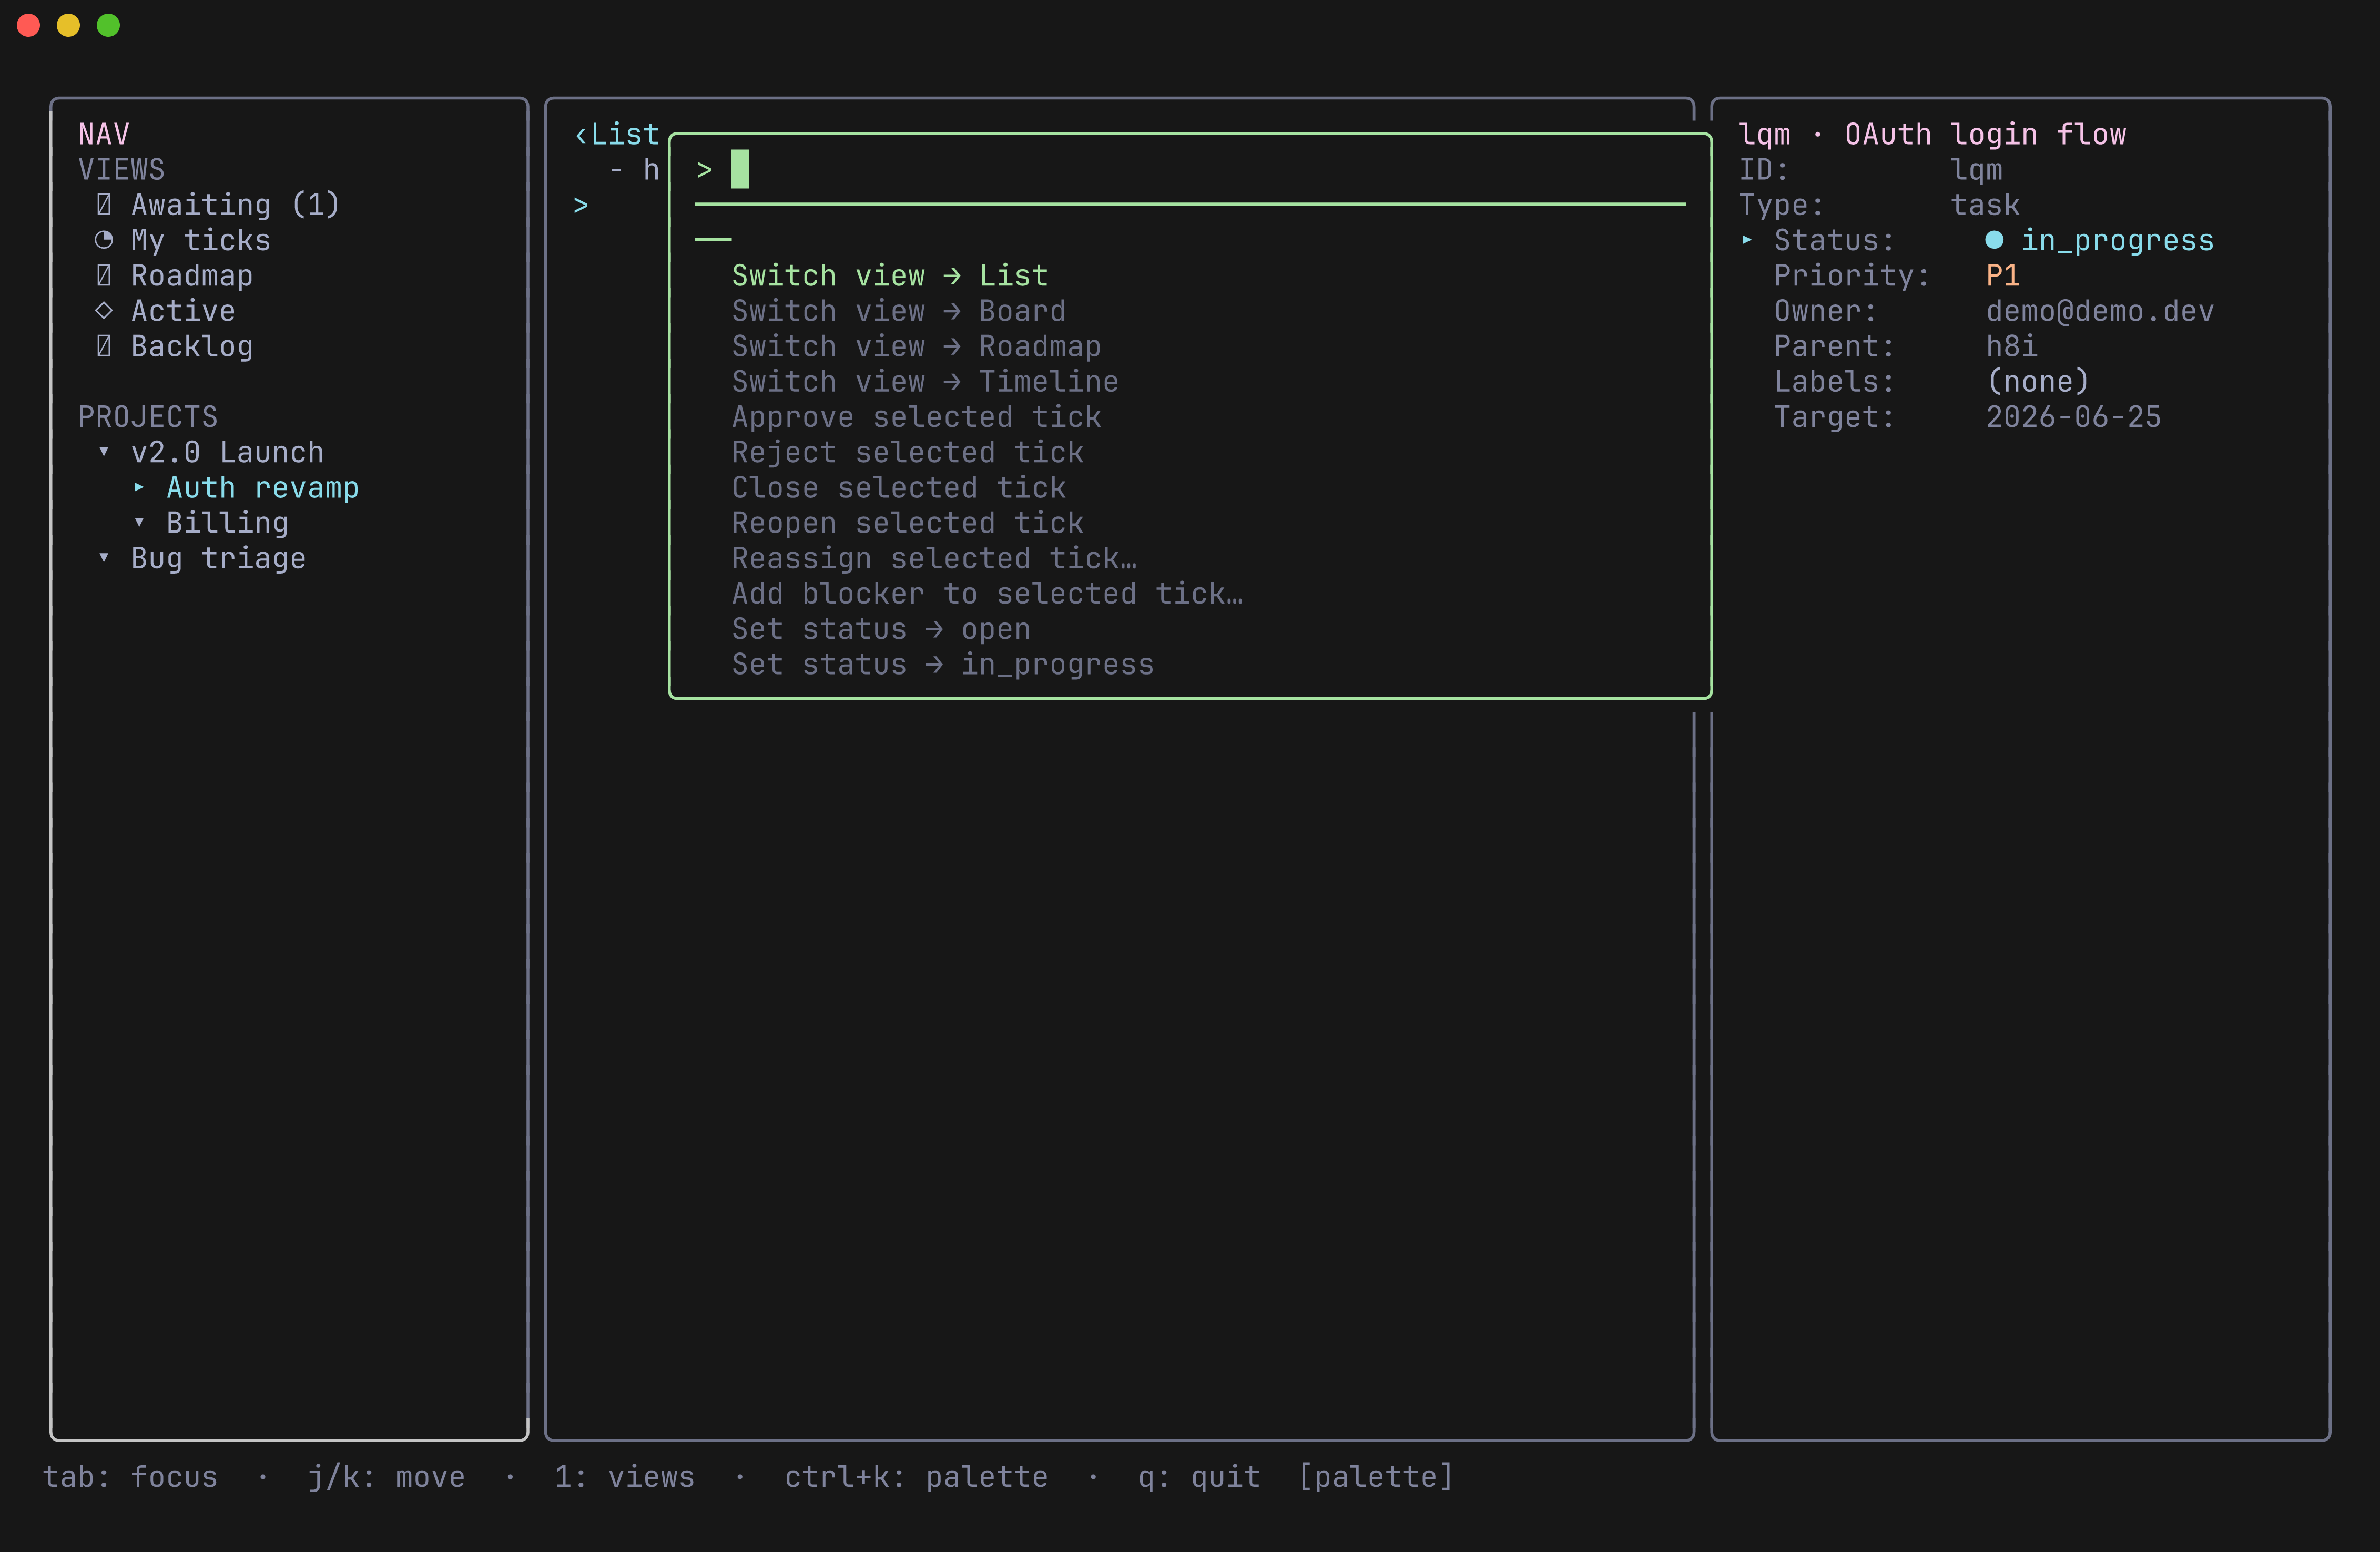
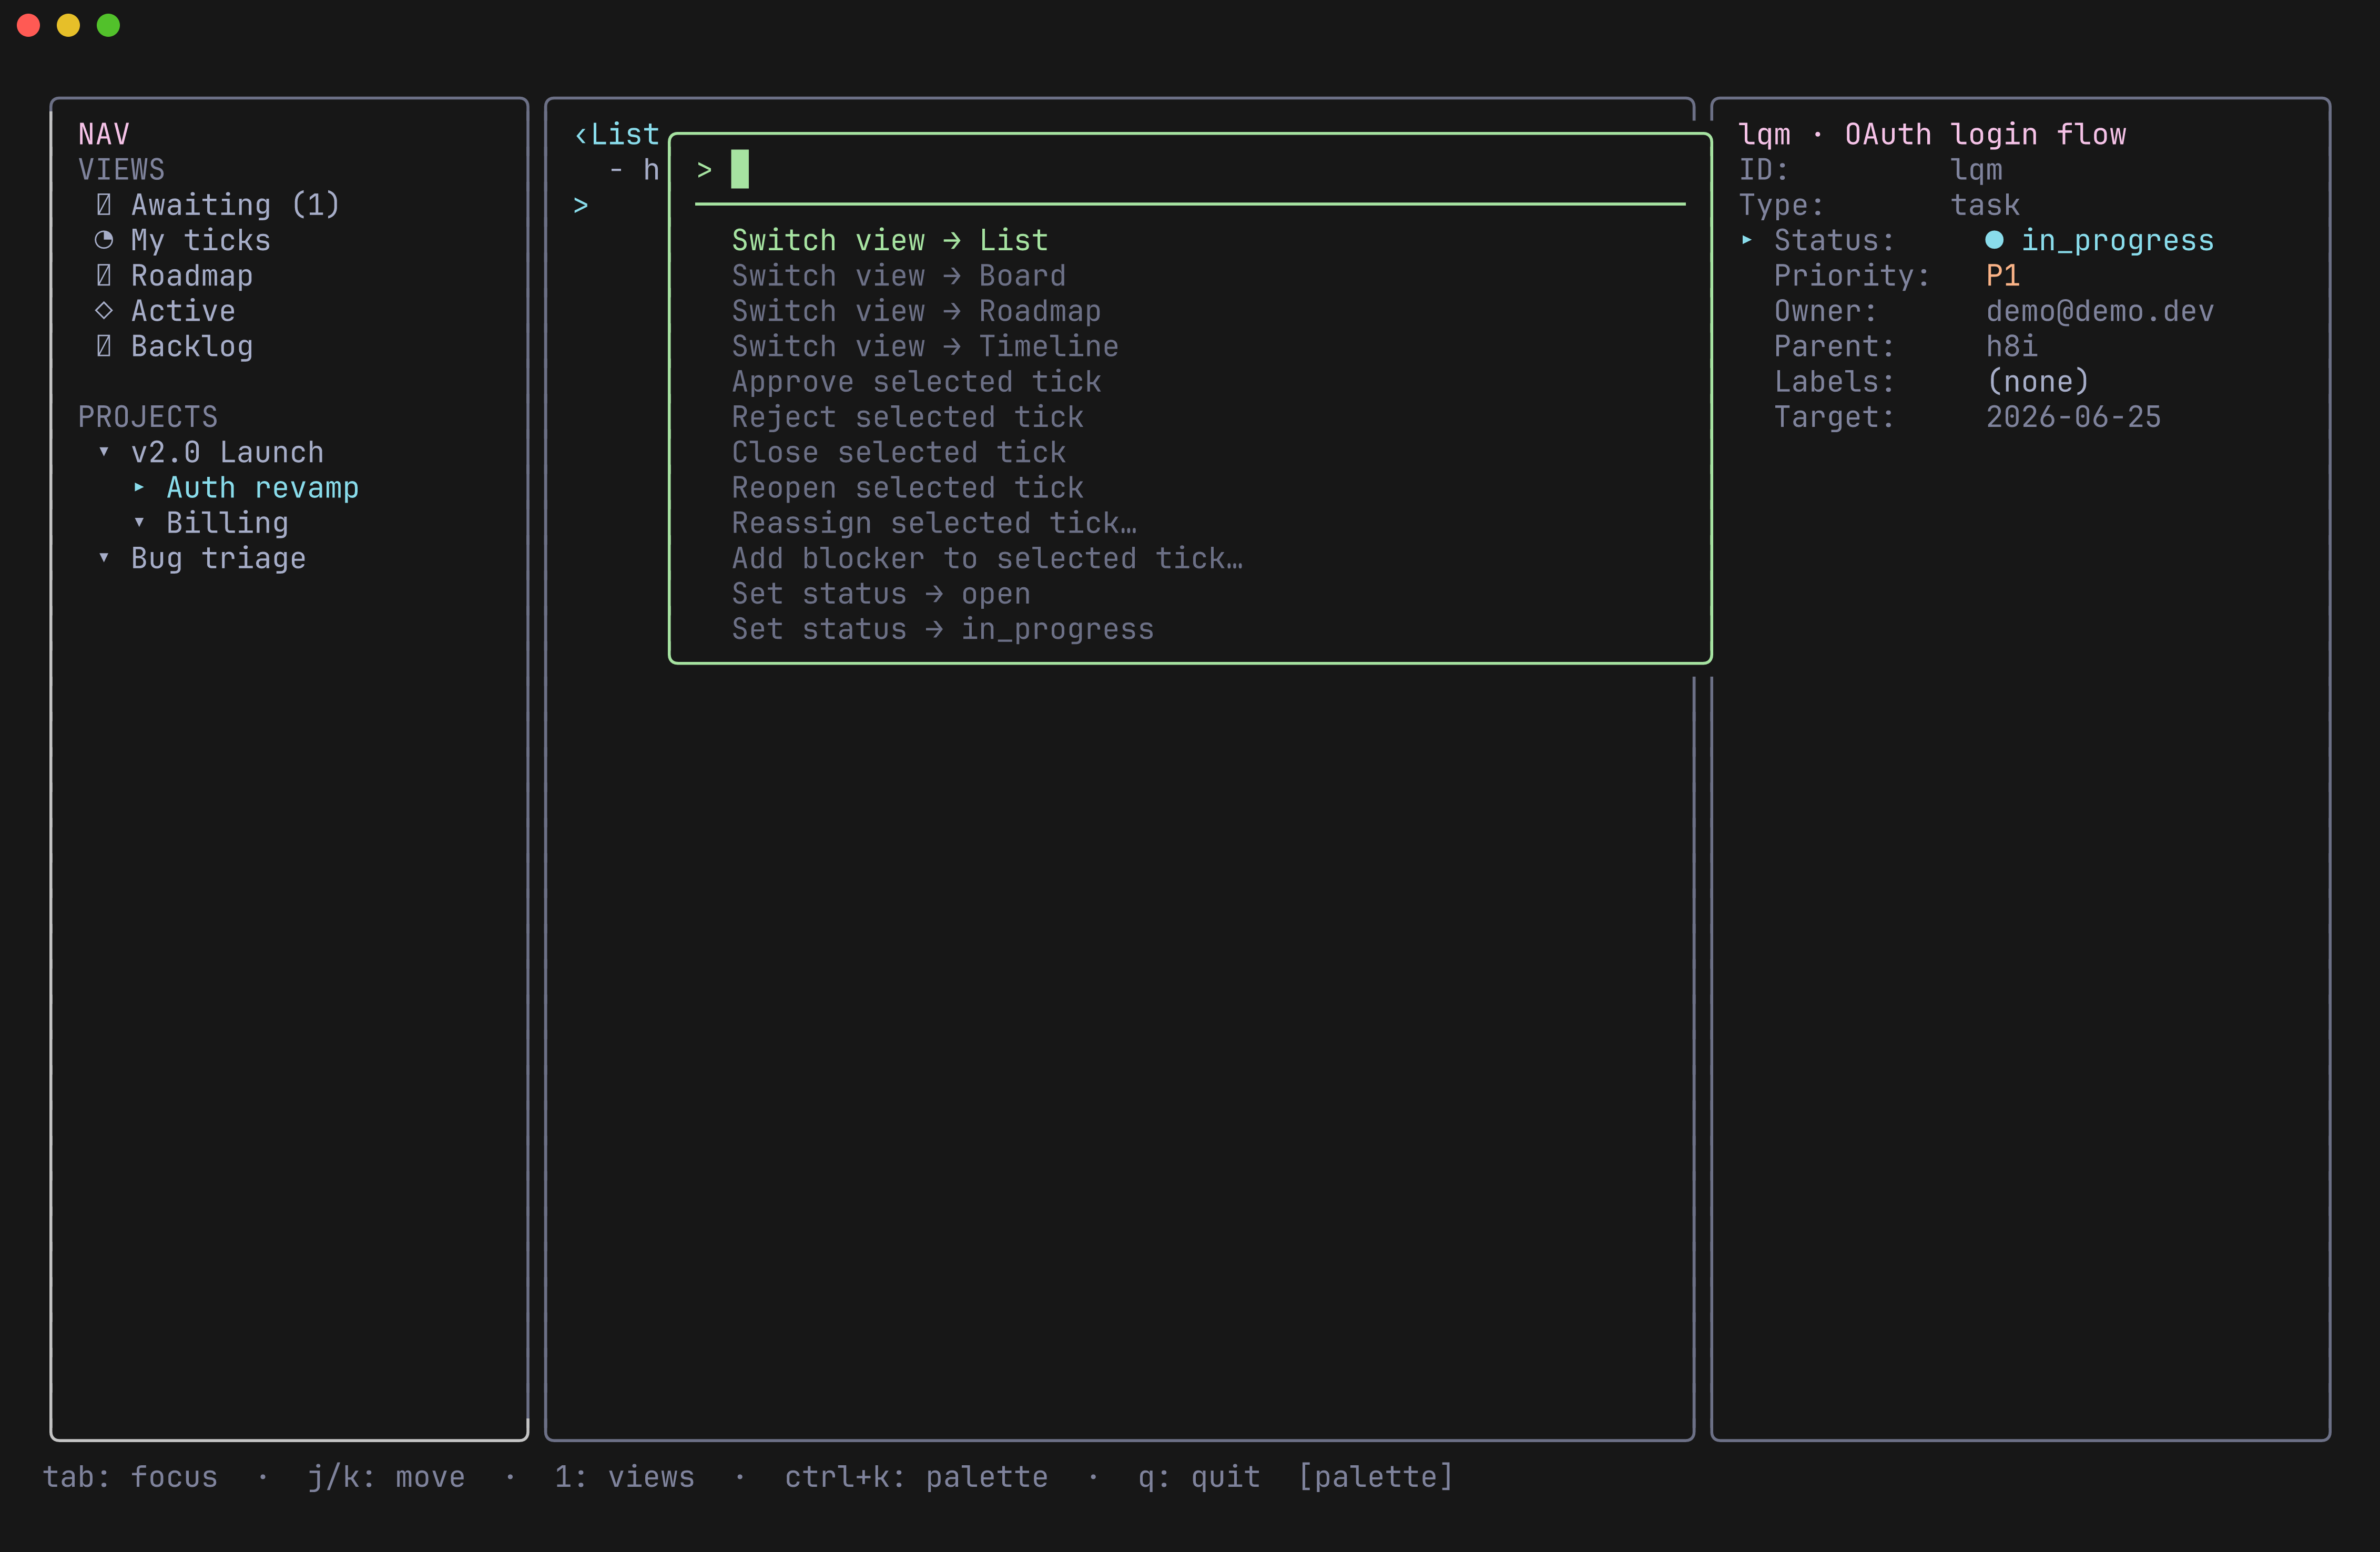
fix(tui): palette divider/labels overflowed inner width (Padding(0,1)) and wrapped a dangling segment
Inner text area is boxWidth-4 (border −2, padding −2), not boxWidth-2. Rule now
matches it exactly; row labels truncate to boxWidth-6 to account for the indent.
Regenerated golden + screenshot.

Changed region(s): [[0.3115, 0.187, 0.4985, 0.4363], [0.3115, 0.1558, 0.4361, 0.187]]

diff --git a/internal/tui/palette.go b/internal/tui/palette.go
@@ -298,12 +298,15 @@ func (p palette) View() string {
 
 	var lines []string
 	lines = append(lines, header)
-	lines = append(lines, strings.Repeat("─", boxWidth-2))
+	// boxWidth includes the border (−2) and Padding(0,1) (−2): the inner text
+	// area is boxWidth−4. The rule must match it exactly or it wraps a dangling
+	// segment onto the next line.
+	lines = append(lines, strings.Repeat("─", boxWidth-4))
 	if len(visible) == 0 {
 		lines = append(lines, paletteDimStyle.Render("  No matches"))
 	}
 	for i, c := range visible {
-		label := truncate(c.title, boxWidth-4)
+		label := truncate(c.title, boxWidth-6) // −4 inner width, −2 for the "  " indent
 		absIdx := start + i
 		if absIdx == p.selected {
 			lines = append(lines, paletteSelectedStyle.Render("  "+label))